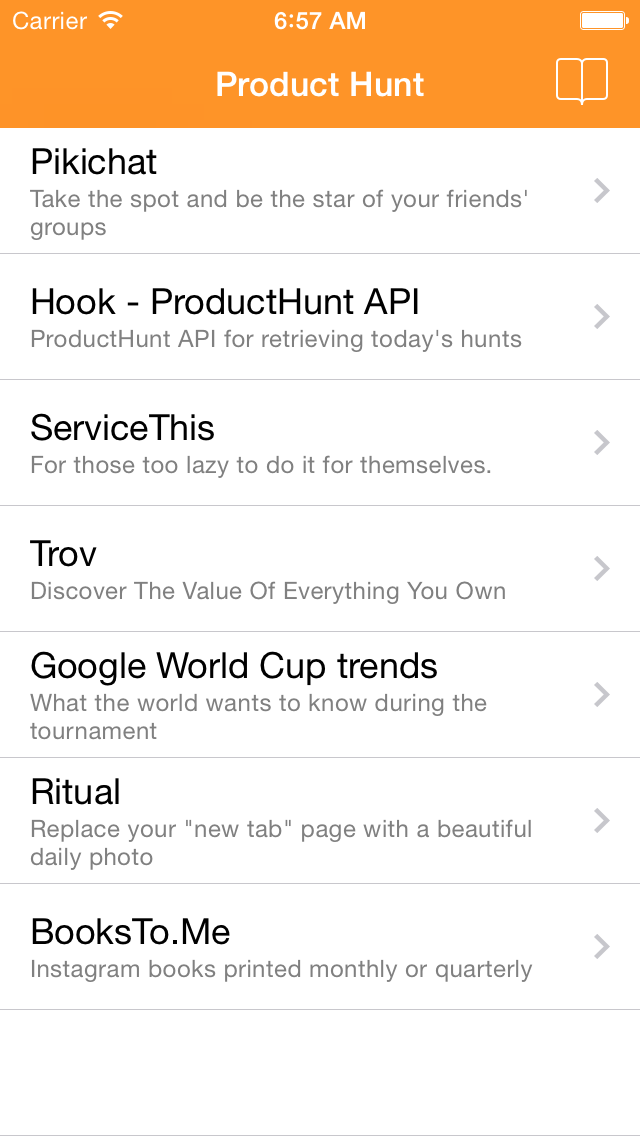
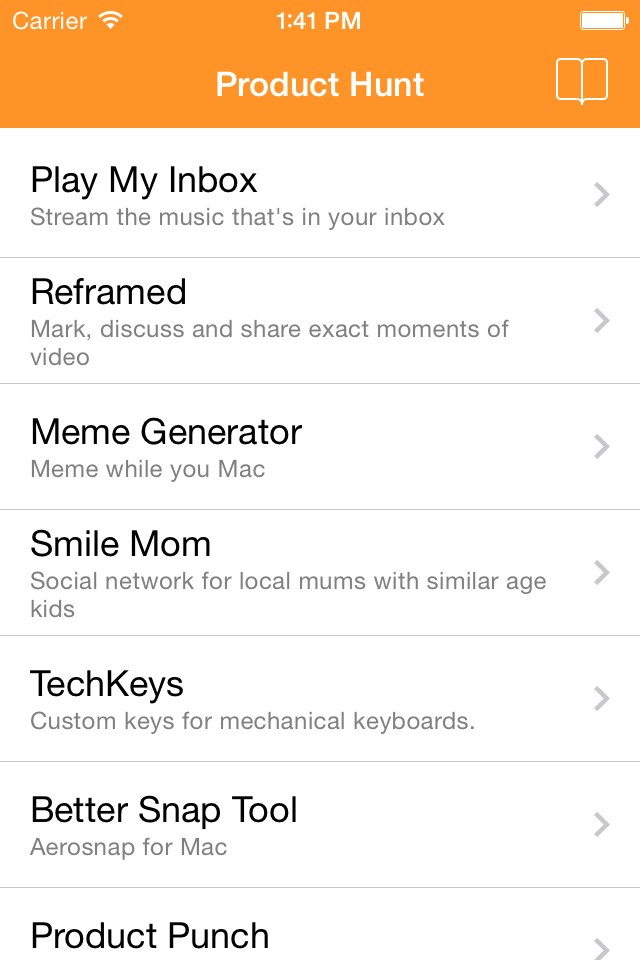
new assets

diff --git a/README.md b/README.md
@@ -3,11 +3,13 @@ ProductHunt
 
 iOS App using [Karan](https://github.com/karan)'s awesome [API](https://github.com/karan/Hook)
 
+![1](https://raw.githubusercontent.com/sapanbhuta/ProductHunt/master/Screenshots/1.png)
 ![2](https://raw.githubusercontent.com/sapanbhuta/ProductHunt/master/Screenshots/2.png)
 ![3](https://raw.githubusercontent.com/sapanbhuta/ProductHunt/master/Screenshots/3.png)
 ![4](https://raw.githubusercontent.com/sapanbhuta/ProductHunt/master/Screenshots/4.png)
 ![5](https://raw.githubusercontent.com/sapanbhuta/ProductHunt/master/Screenshots/5.png)
 ![6](https://raw.githubusercontent.com/sapanbhuta/ProductHunt/master/Screenshots/6.png)
+![7](https://raw.githubusercontent.com/sapanbhuta/ProductHunt/master/Screenshots/7.png)
 
 Contributing
 ------------
